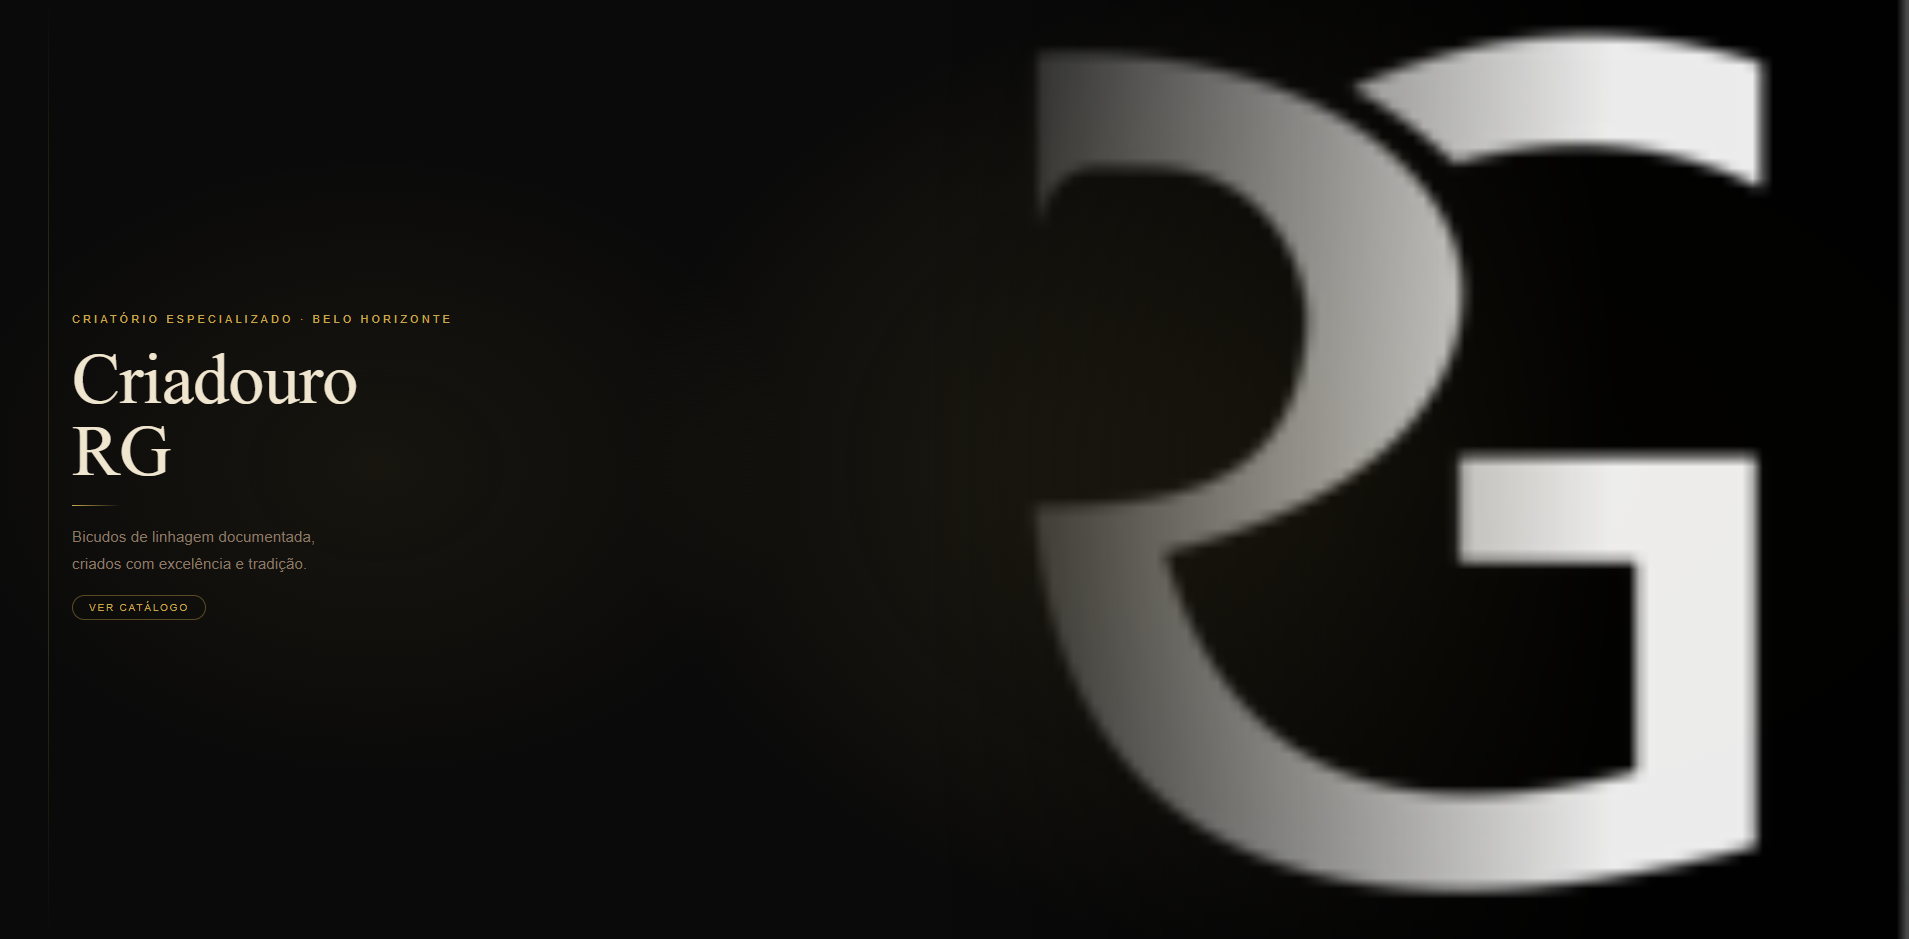
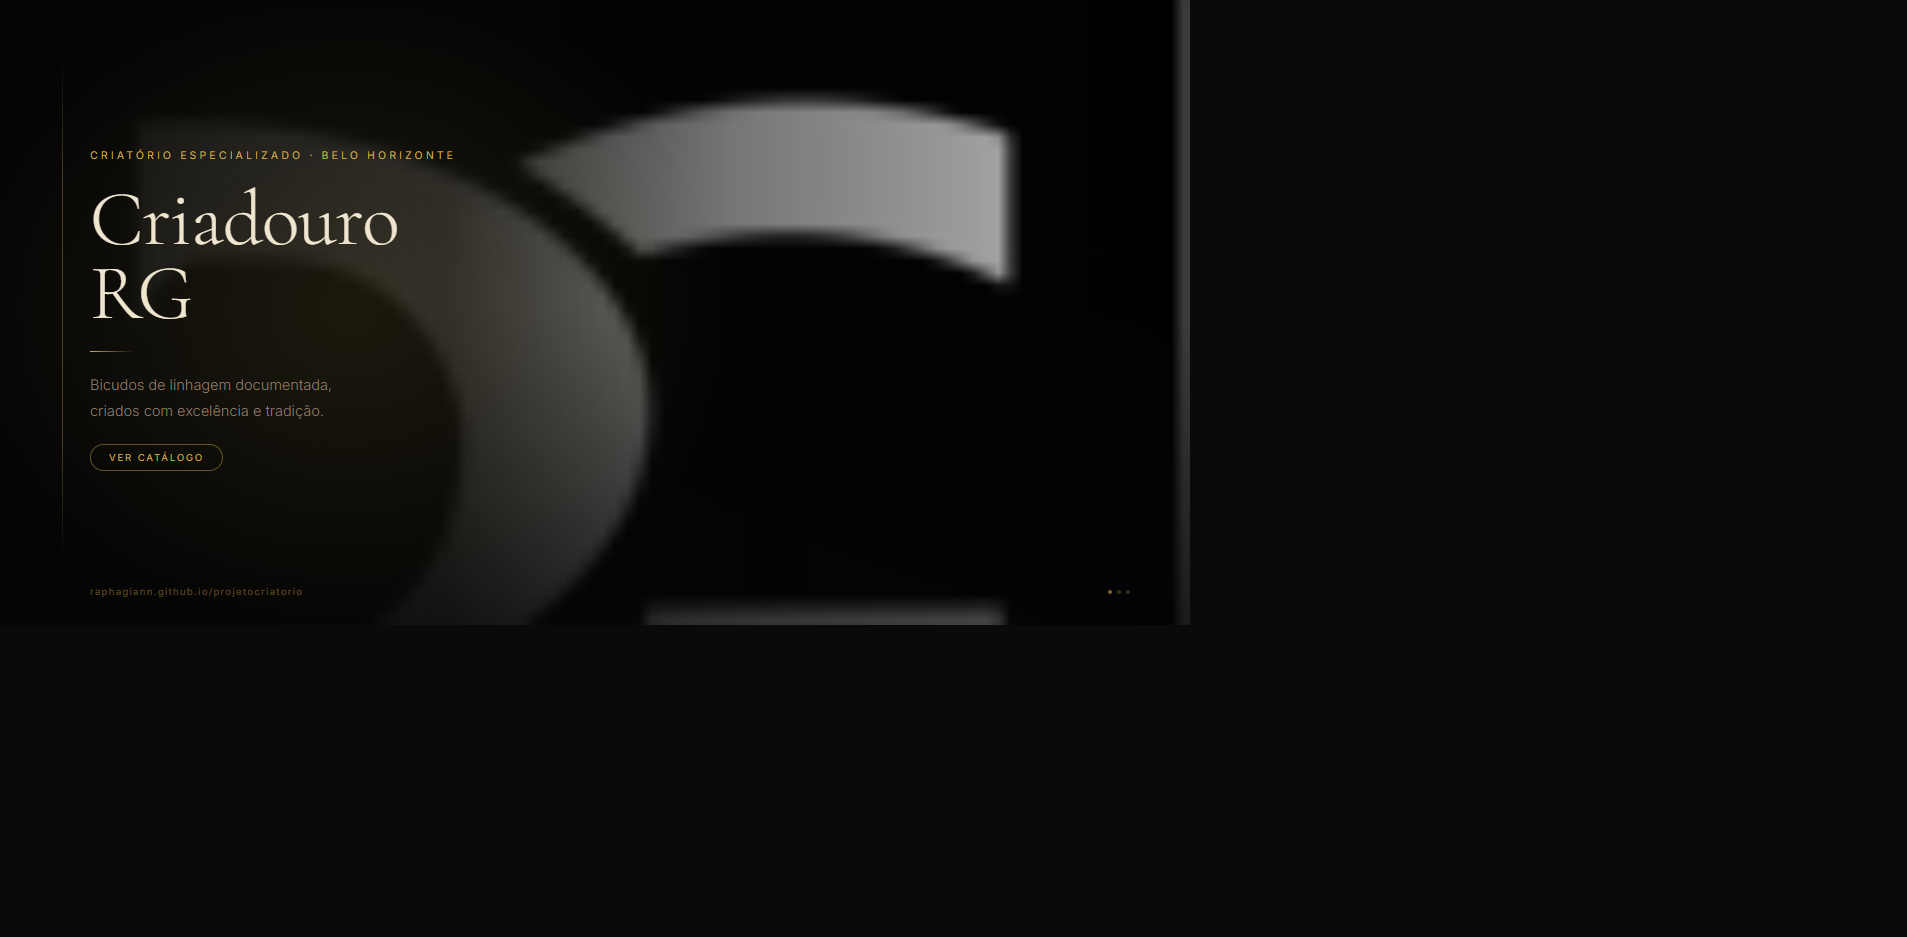
Atualiza imagem de preview do WhatsApp com novo layout

diff --git a/og-preview.html b/og-preview.html
@@ -2,130 +2,163 @@
 <html>
 <head>
   <meta charset="UTF-8"/>
+  <link href="https://fonts.googleapis.com/css2?family=Cormorant+Garamond:wght@300;400;600&family=Inter:wght@300;400;500&display=swap" rel="stylesheet"/>
   <style>
     * { margin: 0; padding: 0; box-sizing: border-box; }
+
     body {
       width: 1200px;
       height: 630px;
       overflow: hidden;
       background: #0a0a0a;
-      font-family: 'Cormorant Garamond', Georgia, serif;
+      position: relative;
     }
-    @import url('https://fonts.googleapis.com/css2?family=Cormorant+Garamond:wght@300;400;600&family=Inter:wght@300;400;500&display=swap');
 
-    .bg {
+    /* Foto preenchendo tudo */
+    .photo {
+      position: absolute;
+      inset: 0;
+      width: 100%;
+      height: 100%;
+      object-fit: cover;
+      object-position: center top;
+    }
+
+    /* Overlay escuro em cima da foto */
+    .overlay {
       position: absolute;
       inset: 0;
       background:
-        radial-gradient(ellipse 70% 90% at 75% 50%, rgba(201,168,76,0.18) 0%, transparent 60%),
-        radial-gradient(ellipse 40% 60% at 20% 50%, rgba(201,168,76,0.07) 0%, transparent 55%),
-        #0a0a0a;
+        linear-gradient(to right, rgba(5,5,5,0.97) 0%, rgba(5,5,5,0.88) 38%, rgba(5,5,5,0.55) 62%, rgba(5,5,5,0.25) 100%),
+        linear-gradient(to top,   rgba(5,5,5,0.6)  0%, transparent 50%);
     }
 
-    .photo {
-      position: absolute;
-      right: 0;
-      top: 0;
-      width: 52%;
-      height: 100%;
-      object-fit: cover;
-      object-position: center;
-      mask-image: linear-gradient(to left, rgba(0,0,0,0.92) 30%, rgba(0,0,0,0.45) 65%, transparent 100%);
-      -webkit-mask-image: linear-gradient(to left, rgba(0,0,0,0.92) 30%, rgba(0,0,0,0.45) 65%, transparent 100%);
-    }
-
-    .content {
+    /* Brilho dourado sutil */
+    .glow {
       position: absolute;
       inset: 0;
+      background: radial-gradient(ellipse 50% 80% at 30% 50%, rgba(201,168,76,0.12) 0%, transparent 65%);
+    }
+
+    /* Linha vertical decorativa */
+    .line-v {
+      position: absolute;
+      left: 72px;
+      top: 60px;
+      bottom: 60px;
+      width: 1px;
+      background: linear-gradient(to bottom, transparent, rgba(201,168,76,0.35) 25%, rgba(201,168,76,0.35) 75%, transparent);
+    }
+
+    /* Conteúdo de texto */
+    .content {
+      position: absolute;
+      top: 0;
+      left: 0;
+      bottom: 0;
+      width: 58%;
       display: flex;
       flex-direction: column;
       justify-content: center;
-      padding: 0 80px;
-      gap: 18px;
+      padding: 0 80px 0 100px;
+      gap: 20px;
     }
 
     .tag {
       font-family: 'Inter', sans-serif;
-      font-size: 11px;
-      letter-spacing: 0.28em;
+      font-size: 10.5px;
+      letter-spacing: 0.3em;
       text-transform: uppercase;
       color: #c9a84c;
       font-weight: 400;
     }
 
-    .logo-row {
-      display: flex;
-      align-items: center;
-      gap: 18px;
-    }
-
-    .logo-img {
-      width: 72px;
-      height: 72px;
-      border-radius: 50%;
-      border: 1.5px solid rgba(201,168,76,0.7);
-      object-fit: cover;
-      box-shadow: 0 0 24px rgba(201,168,76,0.25);
-    }
-
     h1 {
       font-family: 'Cormorant Garamond', serif;
-      font-size: 72px;
+      font-size: 78px;
       font-weight: 300;
       color: #f0e6d0;
-      line-height: 1.0;
+      line-height: 0.95;
       letter-spacing: -0.01em;
     }
 
-    .sub {
-      font-family: 'Inter', sans-serif;
-      font-size: 15px;
-      color: #8a7a65;
-      font-weight: 300;
-      max-width: 400px;
-      line-height: 1.75;
-      letter-spacing: 0.01em;
-    }
-
     .divider {
-      width: 48px;
+      width: 44px;
       height: 1px;
       background: linear-gradient(to right, #c9a84c, transparent);
     }
 
+    .sub {
+      font-family: 'Inter', sans-serif;
+      font-size: 14.5px;
+      color: #8a7a65;
+      font-weight: 300;
+      line-height: 1.8;
+      max-width: 360px;
+    }
+
     .badge {
       font-family: 'Inter', sans-serif;
-      font-size: 10px;
-      letter-spacing: 0.18em;
+      font-size: 9.5px;
+      letter-spacing: 0.2em;
       text-transform: uppercase;
       color: #c9a84c;
-      border: 1px solid rgba(201,168,76,0.4);
+      border: 1px solid rgba(201,168,76,0.45);
       border-radius: 999px;
-      padding: 6px 16px;
-      display: inline-block;
+      padding: 7px 18px;
       width: fit-content;
     }
 
-    .line-v {
+    /* URL do site no rodapé */
+    .footer {
       position: absolute;
-      left: 56px;
-      top: 0;
-      bottom: 0;
-      width: 1px;
-      background: linear-gradient(to bottom, transparent, rgba(201,168,76,0.2) 30%, rgba(201,168,76,0.2) 70%, transparent);
+      bottom: 28px;
+      left: 100px;
+      right: 60px;
+      display: flex;
+      justify-content: space-between;
+      align-items: center;
     }
+
+    .url {
+      font-family: 'Inter', sans-serif;
+      font-size: 9.5px;
+      letter-spacing: 0.14em;
+      color: rgba(201,168,76,0.4);
+      text-transform: lowercase;
+    }
+
+    .dots {
+      display: flex;
+      gap: 5px;
+    }
+
+    .dots span {
+      width: 4px;
+      height: 4px;
+      border-radius: 50%;
+      background: rgba(201,168,76,0.25);
+    }
+    .dots span:first-child { background: rgba(201,168,76,0.55); }
   </style>
 </head>
 <body>
-  <div class="bg"></div>
   <img class="photo" src="Captura de tela 2026-03-29 104303.png" alt="" />
+  <div class="overlay"></div>
+  <div class="glow"></div>
   <div class="line-v"></div>
+
   <div class="content">
     <span class="tag">Criatório Especializado · Belo Horizonte</span>
     <h1>Criadouro<br>RG</h1>
     <div class="divider"></div>
     <p class="sub">Bicudos de linhagem documentada,<br>criados com excelência e tradição.</p>
     <span class="badge">Ver Catálogo</span>
+  </div>
+
+  <div class="footer">
+    <span class="url">raphagiann.github.io/projetoCriatorio</span>
+    <div class="dots"><span></span><span></span><span></span></div>
   </div>
 </body>
 </html>
